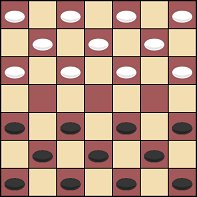
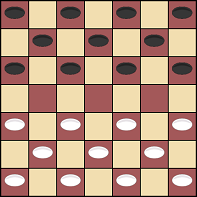
Lasca (fix)

diff --git a/checkers/scripts/laska.js b/checkers/scripts/laska.js
@@ -36,8 +36,8 @@ Dagaz.Model.BuildDesign = function(design) {
     design.addDirection("sw");
     design.addDirection("nw");
 
-    design.addPlayer("Black", [2, 3, 0, 1]);
     design.addPlayer("White", [2, 3, 0, 1]);
+    design.addPlayer("Black", [2, 3, 0, 1]);
 
     design.addPosition("a7", [0, 8, 0, 0]);
     design.addPosition("b7", [0, 8, 6, 0]);
@@ -167,36 +167,36 @@ Dagaz.Model.BuildDesign = function(design) {
     design.addMove(1, 3, [2], 1);
     design.addMove(1, 3, [1], 1);
 
-    design.setup("Black", "Man", 42);
-    design.setup("Black", "Man", 44);
-    design.setup("Black", "Man", 46);
-    design.setup("Black", "Man", 48);
-    design.setup("Black", "Man", 36);
-    design.setup("Black", "Man", 38);
-    design.setup("Black", "Man", 40);
-    design.setup("Black", "Man", 28);
-    design.setup("Black", "Man", 30);
-    design.setup("Black", "Man", 32);
-    design.setup("Black", "Man", 34);
-    design.setup("White", "Man", 0);
-    design.setup("White", "Man", 2);
-    design.setup("White", "Man", 4);
-    design.setup("White", "Man", 6);
-    design.setup("White", "Man", 8);
-    design.setup("White", "Man", 10);
-    design.setup("White", "Man", 12);
-    design.setup("White", "Man", 14);
-    design.setup("White", "Man", 16);
-    design.setup("White", "Man", 18);
-    design.setup("White", "Man", 20);
+    design.setup("White", "Man", 42);
+    design.setup("White", "Man", 44);
+    design.setup("White", "Man", 46);
+    design.setup("White", "Man", 48);
+    design.setup("White", "Man", 36);
+    design.setup("White", "Man", 38);
+    design.setup("White", "Man", 40);
+    design.setup("White", "Man", 28);
+    design.setup("White", "Man", 30);
+    design.setup("White", "Man", 32);
+    design.setup("White", "Man", 34);
+    design.setup("Black", "Man", 0);
+    design.setup("Black", "Man", 2);
+    design.setup("Black", "Man", 4);
+    design.setup("Black", "Man", 6);
+    design.setup("Black", "Man", 8);
+    design.setup("Black", "Man", 10);
+    design.setup("Black", "Man", 12);
+    design.setup("Black", "Man", 14);
+    design.setup("Black", "Man", 16);
+    design.setup("Black", "Man", 18);
+    design.setup("Black", "Man", 20);
 }
 
 Dagaz.View.configure = function(view) {
     view.defBoard("Board");
-    view.defPiece("WhiteMan", "White Man");
-    view.defPiece("BlackMan", "Black Man");
-    view.defPiece("WhiteKing", "White King");
-    view.defPiece("BlackKing", "Black King");
+    view.defPiece("BlackMan", "White Man");
+    view.defPiece("WhiteMan", "Black Man");
+    view.defPiece("BlackKing", "White King");
+    view.defPiece("WhiteKing", "Black King");
  
     view.defPosition("a7", 2, 44, 68, 68);
     view.defPosition("b7", 70, 44, 68, 68);

diff --git a/checkers/scripts/alaska-checkers.js b/checkers/scripts/alaska-checkers.js
@@ -25,7 +25,7 @@ Dagaz.Model.BuildDesign = function(design) {
     design.checkVersion("smart-moves", "true");
     design.checkVersion("show-hints", "false");
     design.checkVersion("show-blink", "true");
-    design.checkVersion("advisor-wait", "5");
+    design.checkVersion("advisor-wait", "25");
 
     design.addDirection("se"); // 0
     design.addDirection("sw"); // 1

diff --git a/checkers/scripts/north-american-checkers.js b/checkers/scripts/north-american-checkers.js
@@ -25,7 +25,7 @@ Dagaz.Model.BuildDesign = function(design) {
     design.checkVersion("smart-moves", "true");
     design.checkVersion("show-hints", "false");
     design.checkVersion("show-blink", "true");
-    design.checkVersion("advisor-wait", "5");
+    design.checkVersion("advisor-wait", "25");
 
     design.addDirection("se"); // 0
     design.addDirection("sw"); // 1
